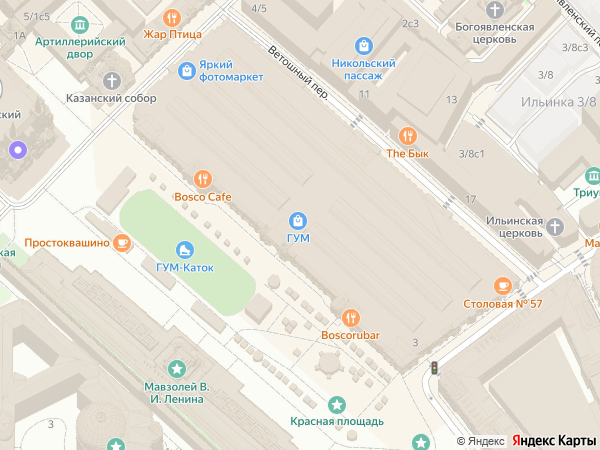
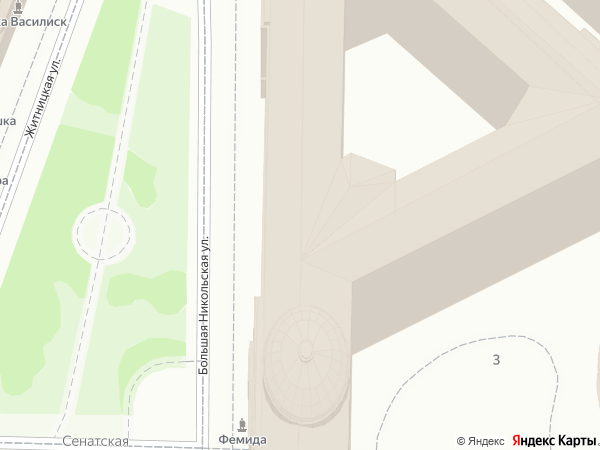
задача 4 решена изменение темы работает

diff --git a/main.py b/main.py
@@ -76,6 +76,7 @@ class MainWindow(QMainWindow):
         # self.style_button.move(40, 40)
         layout.addWidget(self.style_button)
         self.style_button.setText("Изменить тему")
+        self.style_button.clicked.connect(self.change_theme)
         self.pg_up_button = QPushButton(self)
         self.pg_up_button.setText("Увеличить")
         layout.addWidget(self.pg_up_button)
@@ -129,6 +130,16 @@ class MainWindow(QMainWindow):
     def down(self):
         global lot, MASHTAB, THEME
         lot = str(float(lot) - 0.0008)
+        get_card_by_coord_and_size(lan, lot, MASHTAB, THEME)
+        self.image = QPixmap('map.png')
+        self.label.setPixmap(self.image)
+
+    def change_theme(self):
+        global MASHTAB, THEME
+        if THEME == "light":
+            THEME = "dark"
+        else:
+            THEME = "light"
         get_card_by_coord_and_size(lan, lot, MASHTAB, THEME)
         self.image = QPixmap('map.png')
         self.label.setPixmap(self.image)
